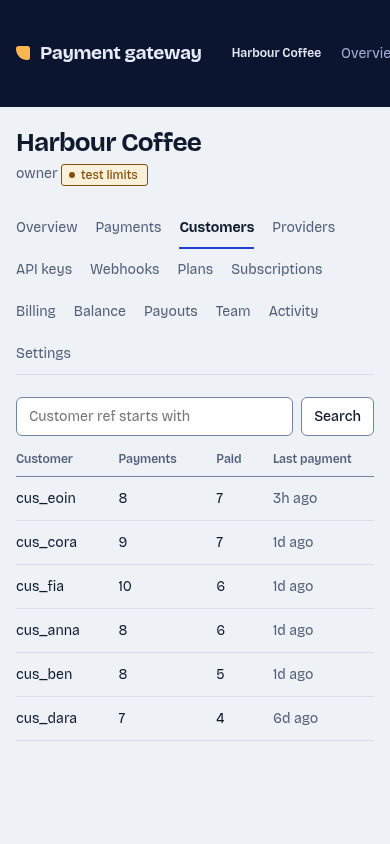
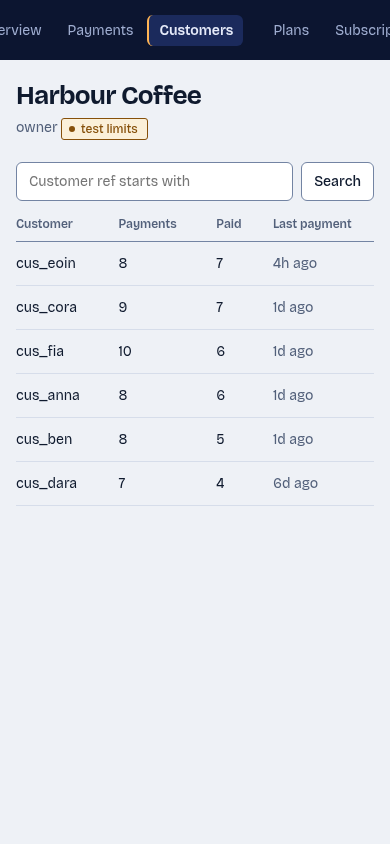
Console nav rail, filter bar, form and dialog fixes

diff --git a/web/console.css b/web/console.css
@@ -14,6 +14,7 @@ nav a { display: block; padding: 5px 10px; border-radius: var(--radius); color: 
 nav a:hover { color: var(--nav-text); text-decoration: none; background: var(--nav-line); }
 nav a.on { background: var(--nav-on); color: var(--nav-text); font-weight: 600; border-left-color: var(--nav-accent); border-top-left-radius: 0; border-bottom-left-radius: 0; }
 nav :focus-visible { outline-color: var(--nav-accent); }
+nav .gap { height: 10px; flex: none; }
 nav .sep { margin: 18px 10px 6px; font-size: var(--fs-sm); font-weight: 600; color: var(--nav-text); padding-top: 12px; border-top: 1px solid var(--nav-line); }
 nav h1 + .sep { border-top: 0; padding-top: 0; margin-top: 0; }
 nav .foot { margin-top: auto; padding: 14px 10px 0; font-size: var(--fs-sm); color: var(--nav-muted); border-top: 1px solid var(--nav-line); overflow-wrap: anywhere; }
@@ -43,7 +44,7 @@ tr.click:hover td:first-child { box-shadow: inset 3px 0 0 var(--accent); padding
 .pill.info, .pill.processing, .pill.refunded, .pill.approved, .pill.sending { color: var(--info); border-color: var(--info); background: var(--info-bg); }
 button, input, select, textarea { font: inherit; color: var(--text); background: var(--card); border: 1px solid var(--line-strong); border-radius: var(--radius); padding: 8px 12px; }
 input:hover, select:hover, textarea:hover { border-color: var(--text); }
-input:focus-visible, select:focus-visible, textarea:focus-visible { outline-offset: 0; border-color: var(--accent); }
+input:focus-visible, select:focus-visible, textarea:focus-visible { outline: 2px solid var(--focus); outline-offset: 0; border-color: var(--accent); }
 textarea { width: 100%; min-height: 90px; font-family: var(--font-mono); font-size: var(--fs-sm); }
 button { cursor: pointer; font-weight: 500; transition: border-color var(--dur-fast) var(--ease), background var(--dur-fast) var(--ease); }
 button:hover:not(:disabled) { border-color: var(--accent); }
@@ -63,10 +64,6 @@ button:disabled { opacity: .5; cursor: progress; }
 .secret b { display: block; margin-bottom: 4px; color: var(--warn); }
 .auth { max-width: 380px; margin: 12vh auto; padding: 0 16px; }
 .auth h1 { font-size: 20px; }
-.tabs { display: flex; gap: 2px 18px; border-bottom: 1px solid var(--line); margin: 0 0 22px; flex-wrap: wrap; }
-.tabs a { padding: 9px 0; color: var(--muted); border-bottom: 2px solid transparent; white-space: nowrap; margin-bottom: -1px; }
-.tabs a:hover { color: var(--text); text-decoration: none; }
-.tabs a.on { color: var(--text); font-weight: 700; border-color: var(--accent); }
 details summary { cursor: pointer; color: var(--muted); }
 pre { background: var(--code); padding: 12px 14px; border-radius: var(--radius); overflow: auto; font-size: 12px; margin: 6px 0; }
 dl.kv { display: grid; grid-template-columns: max-content 1fr; gap: 6px 24px; margin: 0; }
@@ -76,6 +73,20 @@ dl.kv dt { color: var(--muted); } dl.kv dd { margin: 0; overflow-wrap: anywhere;
 .plan-editor input:not([type=checkbox]) { width: 7.5rem; min-width: 0; }
 .plan-editor td:nth-child(2) input { width: 9rem; }
 .filters { display: grid; grid-template-columns: repeat(auto-fit, minmax(150px, 1fr)); gap: 8px; margin: 0 0 8px; }
+.primary-filters { grid-template-columns: minmax(180px, 2fr) repeat(2, minmax(132px, 1fr)) repeat(2, minmax(148px, 1fr)) auto auto; align-items: center; margin-bottom: 10px; }
+.toolbar { display: flex; justify-content: flex-end; margin: 0 0 12px; }
+.toolbar-actions { display: flex; gap: 10px; align-items: center; }
+.menu { position: relative; }
+.menu summary { list-style: none; cursor: pointer; padding: 8px 12px; border-radius: var(--radius); color: var(--muted); }
+.menu summary::-webkit-details-marker { display: none; }
+.menu summary:hover, .menu[open] summary { color: var(--text); background: var(--code); }
+.menu-list { position: absolute; right: 0; top: calc(100% + 4px); z-index: 20; min-width: 200px; background: var(--card); border: 1px solid var(--line-strong); border-radius: var(--radius); box-shadow: var(--shadow-2); padding: 4px; display: flex; flex-direction: column; }
+.menu-item { border: 0; text-align: left; background: none; padding: 8px 10px; }
+.menu-item:hover:not(:disabled) { background: var(--code); }
+.more-filters { margin: 0 0 12px; }
+.more-filters .filters { margin-top: 10px; }
+.viewgroup { display: flex; gap: 8px; flex-wrap: wrap; margin-top: 4px; }
+.viewgroup > input { flex: 1; min-width: 140px; }
 .filters input, .filters select { width: 100%; }
 .list-area { min-height: 160px; }
 .dash-area { min-height: 260px; }
@@ -86,7 +97,7 @@ dl.kv dt { color: var(--muted); } dl.kv dd { margin: 0; overflow-wrap: anywhere;
 .seg button:last-child { border-radius: 0 var(--radius) var(--radius) 0; }
 .seg button.on { background: var(--accent); color: var(--accent-text); border-color: var(--accent); }
 tr.click:focus-visible { outline: 2px solid var(--accent); outline-offset: -2px; }
-@media (max-width: 900px) { main { padding: 20px 16px 56px; } h2 { font-size: 26px; } .filters { grid-template-columns: repeat(2, 1fr); } }
+@media (max-width: 900px) { main { padding: 20px 16px 56px; } h2 { font-size: 26px; } .filters, .primary-filters { grid-template-columns: repeat(2, 1fr); } .primary-filters > :first-child { grid-column: 1 / -1; } }
 
 .hero { background: var(--card); border: 1px solid var(--line); border-radius: var(--radius-lg); padding: 22px 26px 20px; margin: 0 0 16px; }
 .hero .seg { float: right; margin: 0; }
@@ -109,8 +120,8 @@ tr.click:focus-visible { outline: 2px solid var(--accent); outline-offset: -2px;
 .share-legend { list-style: none; display: flex; flex-wrap: wrap; gap: 6px 24px; padding: 0; margin: 10px 0 0; }
 .share-legend li { display: flex; gap: 8px; align-items: baseline; }
 .swatch-dot { width: 9px; height: 9px; border-radius: 2px; display: inline-block; align-self: center; }
-.ledger { display: grid; grid-template-columns: repeat(auto-fit, minmax(200px, 1fr)); background: var(--card); border: 1px solid var(--line); border-radius: var(--radius-lg); margin: 0 0 16px; overflow: hidden; }
-.fig { padding: 16px 20px; box-shadow: 1px 1px 0 var(--line); }
+.ledger { display: flex; flex-wrap: wrap; background: var(--card); border: 1px solid var(--line); border-radius: var(--radius-lg); margin: 0 0 16px; overflow: hidden; }
+.fig { padding: 16px 20px; box-shadow: 1px 1px 0 var(--line); flex: 1 1 150px; min-width: 0; }
 .fig-n { font-size: var(--fs-xl); font-weight: 700; letter-spacing: -.03em; }
 .fig-l { color: var(--muted); font-size: var(--fs-sm); margin-top: 2px; }
 .fig.bad .fig-n { color: var(--bad); }
@@ -118,4 +129,18 @@ tr.click:focus-visible { outline: 2px solid var(--accent); outline-offset: -2px;
 .banner.info { margin-top: 16px; }
 .empty { background: var(--card); }
 @media (max-width: 520px) { .hero { padding: 16px; } .hero .seg { float: none; margin-bottom: 10px; } .chart-svg { height: 120px; } .fig { padding: 12px 14px; } }
-@media (max-width: 800px) { .shell { grid-template-columns: 1fr; } nav { position: static; height: auto; flex-direction: row; flex-wrap: nowrap; align-items: center; overflow-x: auto; padding: 12px; gap: 4px; } nav > * { flex: none; white-space: nowrap; } nav h1 { margin: 0 14px 0 4px; } nav .sep { margin: 0 4px 0 12px; padding: 0; border: 0; } nav .foot { margin: 0 0 0 12px; padding: 0; border: 0; } nav a.on { border-radius: var(--radius); } }
+@media (max-width: 800px) { .shell { grid-template-columns: 1fr; grid-template-rows: auto 1fr; } nav { position: static; height: auto; flex-direction: row; flex-wrap: nowrap; align-items: center; overflow-x: auto; padding: 12px; gap: 4px; } nav > * { flex: none; white-space: nowrap; } nav .gap { width: 10px; height: auto; } nav h1 { margin: 0 14px 0 4px; } nav .sep { margin: 0 4px 0 12px; padding: 0; border: 0; } nav .foot { margin: 0 0 0 12px; padding: 0; border: 0; } nav a.on { border-radius: var(--radius); } }
+.detail-amount { font-size: var(--fs-lg); font-weight: 700; letter-spacing: -.02em; }
+.detail-actions { margin-top: 14px; padding-top: 12px; border-top: 1px solid var(--line); }
+dl.kv dt { padding-top: 1px; }
+.card > h3:first-child { margin-top: 0; }
+.pill:not(:last-child) { margin-right: 6px; }
+.form { display: grid; grid-template-columns: repeat(2, minmax(0, 1fr)); gap: 0 24px; align-items: start; }
+.form > :not(.field) { grid-column: 1 / -1; }
+.form .field:has(textarea) { grid-column: 1 / -1; }
+.form textarea { min-height: 70px; }
+@media (max-width: 700px) { .form { grid-template-columns: 1fr; } }
+.standing { display: flex; gap: 10px; align-items: center; margin: 4px 0 8px; }
+.toolbar-row { justify-content: space-between; margin: 0 0 14px; }
+.check { display: inline-flex; gap: 8px; align-items: center; cursor: pointer; }
+input[type=checkbox] { accent-color: var(--accent); width: 16px; height: 16px; padding: 0; }

diff --git a/web/console/paylist.js b/web/console/paylist.js
@@ -25,14 +25,14 @@ function downloadCsv(pid, values, out) {
 function payments(pid) {
   projectShell(pid, "payments", function (p, body) {
     var inputs = {
-      q: el("input", { placeholder: "Reference or id", "aria-label": "Reference or id" }),
+      q: el("input", { placeholder: "Search reference or id", "aria-label": "Reference or id" }),
       status: el("select", { "aria-label": "Status" }, STATUSES.map(function (s) { return el("option", { value: s, text: s || "any status" }); })),
       method: el("select", { "aria-label": "Method" }, METHOD_OPTIONS.map(function (s) { return el("option", { value: s, text: s || "any method" }); })),
       customer: el("input", { placeholder: "Customer ref or email", "aria-label": "Customer" }),
       from: el("input", { type: "date", "aria-label": "From date" }),
       to: el("input", { type: "date", "aria-label": "To date" }),
-      min_amount: el("input", { type: "number", min: "0", placeholder: "Min amount (minor units)", "aria-label": "Minimum amount" }),
-      max_amount: el("input", { type: "number", min: "0", placeholder: "Max amount (minor units)", "aria-label": "Maximum amount" })
+      min_amount: el("input", { type: "number", min: "0", placeholder: "Min amount", "aria-label": "Minimum amount in minor units", title: "Minor units, for example cents" }),
+      max_amount: el("input", { type: "number", min: "0", placeholder: "Max amount", "aria-label": "Maximum amount in minor units", title: "Minor units, for example cents" })
     };
     var list = el("div", { class: "list-area" }); var more = el("div"); var out = el("div");
     var viewSelect = el("select", { "aria-label": "Saved views" });
@@ -72,21 +72,35 @@ function payments(pid) {
     FILTER_KEYS.forEach(function (k) {
       inputs[k].addEventListener(inputs[k].tagName === "SELECT" ? "change" : "keydown", function (e) { if (e.type === "change" || e.key === "Enter") load(true); });
     });
-    var viewName = el("input", { placeholder: "View name", "aria-label": "View name" });
+    var viewName = el("input", { placeholder: "Name this view", "aria-label": "View name" });
     var canWrite = p.role !== "viewer";
-    body.appendChild(el("div", { class: "filters" }, FILTER_KEYS.map(function (k) { return inputs[k]; })));
-    body.appendChild(el("div", { class: "row" }, [
-      el("button", { text: "Search", onclick: function () { load(true); } }),
-      el("button", { text: "Clear", onclick: function () { FILTER_KEYS.forEach(function (k) { inputs[k].value = ""; }); viewSelect.value = ""; load(true); } }),
-      el("button", { text: "Export CSV", onclick: function () { downloadCsv(pid, values(), out); } }),
-      viewSelect, viewName,
-      el("button", { text: "Save view", onclick: function () {
+    var menu = el("details", { class: "menu" });
+    function menuItem(label, danger, fn) {
+      return el("button", { class: "menu-item" + (danger ? " danger" : ""), text: label, disabled: danger && !canWrite, onclick: function () { menu.querySelector("summary").focus(); menu.open = false; fn(); } });
+    }
+    menu.addEventListener("keydown", function (e) { if (e.key === "Escape") { menu.open = false; menu.querySelector("summary").focus(); } });
+    document.addEventListener("click", function (e) { if (menu.open && !menu.contains(e.target)) menu.open = false; });
+    menu.appendChild(el("summary", { text: "More actions" }));
+    menu.appendChild(el("div", { class: "menu-list" }, [
+      menuItem("Export CSV", false, function () { downloadCsv(pid, values(), out); }),
+      menuItem("Cancel stale pending", true, function () { bulkCancelDialog(pid, out, function () { load(true); }); })
+    ]));
+    var primaryFilters = ["q", "status", "method", "from", "to"];
+    var moreFilters = ["customer", "min_amount", "max_amount"];
+    var more_ = el("details", { class: "more-filters" }, [
+      el("summary", { text: "More filters and saved views" }),
+      el("div", { class: "filters" }, moreFilters.map(function (k) { return inputs[k]; })),
+      el("div", { class: "viewgroup", role: "group", "aria-label": "Saved views" }, [viewSelect, viewName, el("button", { text: "Save view", onclick: function () {
         var f = {}; var v = values(); Object.keys(v).forEach(function (k) { if (v[k]) f[k] = v[k]; });
         api("POST", "/projects/" + pid + "/saved-views", { name: viewName.value, filter: f }).then(function () { viewName.value = ""; msg(out, "View saved."); loadViews(); }).catch(function (e) { msg(out, e.message, true); });
-      } }),
-      el("button", { class: "danger", text: "Cancel stale pending", disabled: !canWrite, onclick: function () { bulkCancelDialog(pid, out, function () { load(true); }); } }),
-      el("button", { class: "primary", text: "New payment", onclick: function () { go("#/p/" + pid + "/payments/new"); } })
-    ]));
+      } })])
+    ]);
+    body.appendChild(el("div", { class: "toolbar" }, [el("div", { class: "toolbar-actions" }, [menu, el("button", { class: "primary", text: "New payment", onclick: function () { go("#/p/" + pid + "/payments/new"); } })])]));
+    body.appendChild(el("div", { class: "filters primary-filters" }, primaryFilters.map(function (k) { return inputs[k]; }).concat([
+      el("button", { text: "Search", onclick: function () { load(true); } }),
+      el("button", { class: "btn-link", text: "Clear filters", onclick: function () { FILTER_KEYS.forEach(function (k) { inputs[k].value = ""; }); viewSelect.value = ""; load(true); } })
+    ])));
+    body.appendChild(more_);
     body.appendChild(out); body.appendChild(list); body.appendChild(more);
     loadViews(); load(true);
   });

diff --git a/web/console/payments.js b/web/console/payments.js
@@ -39,20 +39,20 @@ function paymentDetail(pid, id) {
             refundFlow(pid, id, pay, amt.value, dest.value.trim(), out, load);
           } }));
         }
-        box.replaceChildren(
+        box.replaceChildren.apply(box, [
           el("div", { class: "card" }, [el("dl", { class: "kv" }, [
             el("dt", { text: "Id" }), el("dd", { class: "mono", text: pay.id }),
             el("dt", { text: "Reference" }), el("dd", { text: pay.reference }),
-            el("dt", { text: "Amount" }), el("dd", { text: fmtAmount(pay.amount, pay.currency) }),
+            el("dt", { text: "Amount" }), el("dd", { class: "detail-amount" }, [moneyEl(pay.amount, pay.currency)]),
             el("dt", { text: "Status" }), el("dd", {}, [pill(pay.status), pay.dispute_status ? " " : "", pay.dispute_status ? pill(pay.dispute_status === "open" ? "disputed" : "dispute " + pay.dispute_status, pay.dispute_status === "won" ? "ok" : "bad") : ""]),
             el("dt", { text: "Created" }), el("dd", { text: new Date(pay.created).toLocaleString() }),
             el("dt", { text: "Expires" }), el("dd", { text: new Date(pay.expires).toLocaleString() }),
-            el("dt", { text: "Paid" }), el("dd", { text: pay.paid_at ? new Date(pay.paid_at).toLocaleString() : "" }),
+            el("dt", { text: "Paid" }), el("dd", { text: pay.paid_at ? new Date(pay.paid_at).toLocaleString() : "not yet" }),
             el("dt", { text: "Customer" }), el("dd", { text: pay.customer_ref || "" }),
             el("dt", { text: "Receipt" }), el("dd", {}, [pay.receipt_url ? el("a", { href: pay.receipt_url, target: "_blank", rel: "noopener", text: pay.receipt_url }) : null]),
             el("dt", { text: "Pay page" }), el("dd", {}, [el("a", { href: pay.pay_url, target: "_blank", rel: "noopener", text: pay.pay_url })]),
-            el("dt", { text: "Metadata" }), el("dd", { class: "mono", text: pay.metadata ? JSON.stringify(pay.metadata) : "" })
-          ]), actions, out]),
+            el("dt", { text: "Metadata" }), el("dd", { class: "mono", text: pay.metadata ? JSON.stringify(pay.metadata) : "none" })
+          ]), actions.childNodes.length ? el("div", { class: "detail-actions" }, [actions]) : null, out]),
           (pay.line_items && pay.line_items.length) ? el("h3", { text: "Line items" }) : null,
           (pay.line_items && pay.line_items.length) ? el("table", {}, [el("tr", {}, ["Item", "Qty", "Unit", "Discount", "Tax", "Total"].map(function (h) { return el("th", { text: h }); }))].concat(pay.line_items.map(function (l) {
             return el("tr", {}, [el("td", { text: l.name + (l.sku ? " (" + l.sku + ")" : "") }), el("td", { text: String(l.quantity) }), el("td", { text: fmtAmount(l.unit_amount, pay.currency) }),
@@ -76,7 +76,7 @@ function paymentDetail(pid, id) {
               el("td", {}, [el("a", { text: "replay", onclick: function () { api("POST", "/projects/" + pid + "/deliveries/" + x.id + "/replay", {}).then(load); } }), " ", el("a", { text: "detail", onclick: function () { deliveryDetail(pid, x.id, deliveryHolder); } })])]);
           })) : el("p", { class: "muted", text: "None." }),
           deliveryHolder
-        );
+        ].filter(Boolean));
       }).catch(function (e) { box.replaceChildren(el("div", { class: "err", text: e.message })); });
     }
     load();

diff --git a/web/console/shared.js b/web/console/shared.js
@@ -13,10 +13,10 @@ function emptyState(title, hint) {
   return el("div", { class: "empty" }, [el("b", { text: title }), el("p", { class: "muted", text: hint })]);
 }
 
-function confirmDialog(title, body, safeLabel, dangerLabel, onConfirm) {
+function confirmChoice(title, body, safeLabel, dangerLabel, onConfirm) {
   var safe = el("button", { text: safeLabel });
   var danger = el("button", { class: "danger", text: dangerLabel });
-  var scrim = el("div", { class: "dialog-scrim" }, [el("div", { class: "dialog", role: "alertdialog", "aria-modal": "true", "aria-label": title }, [
+  var scrim = el("div", { class: "dialog-scrim modal" }, [el("div", { class: "dialog", role: "alertdialog", "aria-modal": "true", "aria-label": title }, [
     el("h4", { text: title }), el("p", { class: "muted", text: body }), el("div", { class: "row" }, [safe, danger])
   ])]);
   function close() { document.removeEventListener("keydown", onKey); scrim.remove(); }
@@ -45,7 +45,7 @@ function sharedMethods(pid, container) {
         var btn = el("button", { class: r.enabled ? "" : "primary", text: r.enabled ? "Disable method" : "Enable method" });
         btn.addEventListener("click", function () {
           if (!r.enabled) return toggle(r, btn);
-          confirmDialog("Disable " + r.name + "?", "New payments can no longer use this method. Payments already started and your balance stay as they are.", "Keep method", "Disable method", function () { toggle(r, btn); });
+          confirmChoice("Disable " + r.name + "?", "New payments can no longer use this method. Payments already started and your balance stay as they are.", "Keep method", "Disable method", function () { toggle(r, btn); });
         });
         return el("tr", {}, [el("td", {}, [r.name, " ", pill("platform managed", "info")]), el("td", { text: r.method }), el("td", { text: r.network }),
           el("td", {}, [feeMoney(r.fee_bps, r.fee_base_msat)]), el("td", {}, [pill(r.enabled ? "enabled" : "disabled", r.enabled ? "ok" : "neutral")]), el("td", {}, [btn])]);
@@ -72,7 +72,7 @@ function sharedAdmin() {
         toggleBtn.addEventListener("click", function () {
           function run() { busy(toggleBtn, function () { return api("POST", "/admin/shared/" + r.id, { enabled: !r.enabled }); }).then(load).catch(function (e) { msg(out, e.message, true); }); }
           if (!r.enabled) return run();
-          confirmDialog("Disable " + r.name + "?", "Projects can no longer start payments on it. Existing balances and refunds are not affected.", "Keep provider", "Disable provider", run);
+          confirmChoice("Disable " + r.name + "?", "Projects can no longer start payments on it. Existing balances and refunds are not affected.", "Keep provider", "Disable provider", run);
         });
         var feeBtn = el("button", { text: "Override fee", onclick: function () { feeOverride(r); } });
         return el("tr", {}, [el("td", { text: r.name }), el("td", { text: r.method + "/" + r.provider_type }), el("td", { text: r.network }),

diff --git a/web/console/core.js b/web/console/core.js
@@ -95,8 +95,9 @@ function layout(active, projectId, content) {
     var open = String(p.id) === String(projectId);
     navs.push(el("div", { class: "sep", text: p.name }));
     if (open) {
-      [["Overview", "overview"], ["Payments", "payments"], ["Customers", "customers"], ["Providers", "providers"], ["API keys", "keys"], ["Webhooks", "webhooks"], ["Plans", "plans"], ["Subscriptions", "subscriptions"], ["Billing", "billing"], ["Balance", "balance"], ["Payouts", "payouts"], ["Team", "team"], ["Activity", "activity"], ["Settings", "settings"]].forEach(function (x) {
-        navs.push(link(x[0], "#/p/" + p.id + "/" + x[1], x[1]));
+      [[["Overview", "overview"], ["Payments", "payments"], ["Customers", "customers"]], [["Plans", "plans"], ["Subscriptions", "subscriptions"], ["Billing", "billing"]], [["Balance", "balance"], ["Payouts", "payouts"]], [["Providers", "providers"], ["API keys", "keys"], ["Webhooks", "webhooks"]], [["Team", "team"], ["Activity", "activity"], ["Settings", "settings"]]].forEach(function (group, gi) {
+        if (gi) navs.push(el("div", { class: "gap" }));
+        group.forEach(function (x) { navs.push(link(x[0], "#/p/" + p.id + "/" + x[1], x[1])); });
       });
     } else { navs.push(link("Open", "#/p/" + p.id + "/overview", "")); }
   });
@@ -107,18 +108,14 @@ function layout(active, projectId, content) {
   } })]));
   var banner = el("div");
   root.replaceChildren(el("div", { class: "shell" }, [el("nav", {}, navs), el("main", {}, [banner, content])]));
+  var current = root.querySelector("nav a.on");
+  if (current && current.scrollIntoView) current.scrollIntoView({ block: "nearest", inline: "center" });
   if (me.is_operator && typeof treasuryBanner === "function") { treasuryBanner(banner); }
-}
-
-function tabs(pid, active) {
-  return el("div", { class: "tabs" }, [["overview", "Overview"], ["payments", "Payments"], ["customers", "Customers"], ["providers", "Providers"], ["keys", "API keys"], ["webhooks", "Webhooks"], ["plans", "Plans"], ["subscriptions", "Subscriptions"], ["billing", "Billing"], ["balance", "Balance"], ["payouts", "Payouts"], ["team", "Team"], ["activity", "Activity"], ["settings", "Settings"]].map(function (t) {
-    return el("a", { href: "#/p/" + pid + "/" + t[0], class: t[0] === active ? "on" : "", text: t[1] });
-  }));
 }
 
 function projectShell(pid, tab, build) {
   api("GET", "/projects/" + pid).then(function (p) {
-    var body = el("div", {}, [el("h2", { text: p.display_name || p.name }), el("p", { class: "sub" }, [p.role + (p.trusted ? "" : " ") , p.trusted ? "" : pill("test limits", "pending")]), tabs(pid, tab)]);
+    var body = el("div", {}, [el("h2", { text: p.display_name || p.name }), el("p", { class: "sub" }, [p.role + (p.trusted ? "" : " ") , p.trusted ? "" : pill("test limits", "pending")])]);
     layout(tab, pid, body);
     build(p, body);
   }).catch(function (e) { layout("", pid, el("div", { class: "err", text: e.message })); });

diff --git a/web/console/operator.js b/web/console/operator.js
@@ -18,9 +18,9 @@ function operatorTenants() {
     });
   }).catch(function (e) { msg(healthBox, e.message, true); });
   api("GET", "/operator/tenants").then(function (r) {
-    box.replaceChildren(el("table", {}, [el("tr", {}, ["Project", "Status", "Payments", "Volume 30d (EUR)", "Daily limit", "Last activity", ""].map(function (h) { return el("th", { text: h }); }))].concat(r.tenants.map(function (t) {
+    box.replaceChildren(el("table", {}, [el("tr", {}, ["Project", "Status", "Payments", "Volume 30d", "Daily limit", "Last activity", ""].map(function (h) { return el("th", { text: h }); }))].concat(r.tenants.map(function (t) {
       return el("tr", {}, [el("td", { text: t.name }), el("td", {}, [pill(t.enabled ? (t.trusted ? "live" : "test") : "disabled", t.enabled ? (t.trusted ? "ok" : "pending") : "bad")]),
-        el("td", { text: t.payments }), el("td", { text: t.volume_30d }), el("td", { text: t.limit_payments_per_day === null ? "default" : t.limit_payments_per_day }),
+        el("td", { text: t.payments }), el("td", { class: "num", text: fmtAmount(t.volume_30d, "EUR") }), el("td", { text: t.limit_payments_per_day === null ? "default" : t.limit_payments_per_day }),
         el("td", { class: "muted", text: t.last_payment ? ago(t.last_payment) : "never" }), el("td", {}, [el("a", { href: "#/support/" + t.id, text: "support view" })])]);
     }))));
   }).catch(function (e) { msg(box, e.message, true); });

diff --git a/web/console/settings.js b/web/console/settings.js
@@ -23,8 +23,8 @@ function settings(pid) {
       payload.allowed_origins = f.allowed_origins.value.split(/\s+/).filter(Boolean);
       busy(btn, function () { return api("POST", "/projects/" + pid + "/settings", payload); }).then(function () { msg(out, "Saved."); }).catch(function (e) { msg(out, e.message, true); });
     });
-    body.appendChild(el("div", { class: "card" }, [field("Webhook URL (https)", f.webhook_url), field("Display name on pay page", f.display_name), field("Logo URL", f.logo_url), field("Accent colour", f.accent_color),
-      field("Allowed embed origins", f.allowed_origins), field("Default success URL", f.default_success_url), field("Default cancel URL", f.default_cancel_url),
+    body.appendChild(el("div", { class: "card form" }, [field("Webhook URL (https)", f.webhook_url), field("Display name on pay page", f.display_name), field("Logo URL", f.logo_url), field("Accent colour", f.accent_color),
+      field("Default success URL", f.default_success_url), field("Default cancel URL", f.default_cancel_url), field("Allowed embed origins", f.allowed_origins),
       field("Legal name (receipts)", f.legal_name), field("Address (receipts)", f.address), field("Tax ID (receipts)", f.tax_id), field("Support email (receipts)", f.support_email), btn, out]));
     var brandingBox = el("div", { class: "card" });
     body.appendChild(el("h3", { text: "Pay page branding" }));

diff --git a/web/styleguide.js b/web/styleguide.js
@@ -68,12 +68,6 @@
     ]);
   }
 
-  function tabs() {
-    return el("div", { class: "tabs" }, ["Overview", "Payments", "Providers", "Settings"].map(function (t, i) {
-      return el("a", { href: "#", class: i === 1 ? "on" : "", text: t });
-    }));
-  }
-
   function badges() {
     function group(name, list) {
       return el("div", { class: "row" }, [el("span", { class: "muted", text: name })].concat(list.map(function (s) { return pill(s); })));
@@ -156,7 +150,6 @@
       section("Type", [el("div", {}, [el("div", { class: "stat" }, [el("div", { class: "n", text: "Balance 1,234.50" }), el("div", { class: "l", text: "Small label" })]), el("p", { text: "Body text at 14px. Plain words, short sentences." }), el("p", { class: "muted", text: "Muted text for hints and metadata." }), el("p", { class: "mono", text: "pay_8f3k2 monospace for ids" })])]),
       section("Buttons", [buttons()]),
       section("Inputs and validation", [inputs()]),
-      section("Tabs", [tabs()]),
       section("Tables and paging", [el("div", { class: "card" }, [tables()])]),
       section("Status pills", [badges()]),
       section("Money", [money()]),

diff --git a/web/console/webhooks.js b/web/console/webhooks.js
@@ -14,8 +14,7 @@ function webhooks(pid) {
       });
     }
     only.addEventListener("change", load);
-    body.appendChild(el("div", { class: "row" }, [el("label", {}, [only, " only undelivered"])]));
-    body.appendChild(el("div", { class: "row" }, [el("button", { text: "Resend all failed", disabled: p.role === "viewer", onclick: function () {
+    body.appendChild(el("div", { class: "row toolbar-row" }, [el("label", { class: "check" }, [only, "Only undelivered"]), el("button", { text: "Resend all failed", disabled: p.role === "viewer", onclick: function () {
       api("POST", "/projects/" + pid + "/deliveries-resend-failed", {}).then(function (r) { msg(toolOut, r.queued + " queued for delivery."); load(); }).catch(function (e) { msg(toolOut, e.message, true); });
     } })]));
     body.appendChild(toolOut); body.appendChild(list); body.appendChild(detailBox); load();

diff --git a/web/console/platform-billing.js b/web/console/platform-billing.js
@@ -10,7 +10,7 @@ function platformBilling(pid) {
       var bad = a.standing !== "current";
       body.appendChild(el("div", { class: "card" }, [
         el("h3", { text: a.plan.name + " plan" }),
-        el("p", {}, [pill(a.standing, bad ? "failed" : "ok"), " " + STANDING_TEXT[a.standing]]),
+        el("p", { class: "standing" }, [pill(a.standing, bad ? "failed" : "ok"), STANDING_TEXT[a.standing]]),
         el("p", { class: "muted", text: "Monthly price " + fmtAmount(a.plan.monthly_price, a.plan.currency) + ". This period: " + a.usage_count + " settled payments, " + fmtAmount(a.usage_volume, a.plan.currency) + " volume, estimated usage fee " + fmtAmount(a.estimated_usage_fee, a.plan.currency) + ". Credit: " + fmtAmount(a.credit, a.plan.currency) + "." })
       ]));
       body.appendChild(el("h3", { text: "Invoices" }));

diff --git a/web/components.css b/web/components.css
@@ -50,3 +50,4 @@
 .mono-wrap { font-family: var(--font-mono); word-break: break-all; }
 body > .toast { position: fixed; left: var(--space-4); bottom: var(--space-4); z-index: 60; }
 .btn-link { background: none; border: 0; padding: 0; color: var(--accent); cursor: pointer; text-decoration: underline; font: inherit; }
+.dialog button:focus { outline: 2px solid var(--focus); outline-offset: 2px; }

diff --git a/tests/console.rs b/tests/console.rs
@@ -188,6 +188,30 @@ fn console_never_hands_null_to_replace_children_which_renders_the_text_null() {
 }
 
 #[test]
+fn console_defines_confirm_dialog_once_so_later_scripts_cannot_override_it() {
+    let dir = std::path::Path::new(env!("CARGO_MANIFEST_DIR")).join("web/console");
+    let mut definitions = 0;
+    for entry in std::fs::read_dir(dir).unwrap() {
+        let js = std::fs::read_to_string(entry.unwrap().path()).unwrap();
+        definitions += js.matches("function confirmDialog(").count();
+    }
+    assert_eq!(definitions, 1);
+}
+
+#[test]
+fn mobile_shell_keeps_the_navigation_row_to_its_content_height() {
+    let css = include_str!("../web/console.css");
+    assert!(css.contains("grid-template-columns: 1fr; grid-template-rows: auto 1fr;"));
+}
+
+#[test]
+fn payment_detail_without_line_items_renders_no_null_text() {
+    let js = include_str!("../web/console/payments.js");
+    assert!(!js.contains("box.replaceChildren(\n"));
+    assert!(js.contains("].filter(Boolean)"));
+}
+
+#[test]
 fn expired_and_cancelled_pills_are_neutral_and_failures_stay_red() {
     let css = include_str!("../web/console.css");
     let red = css
